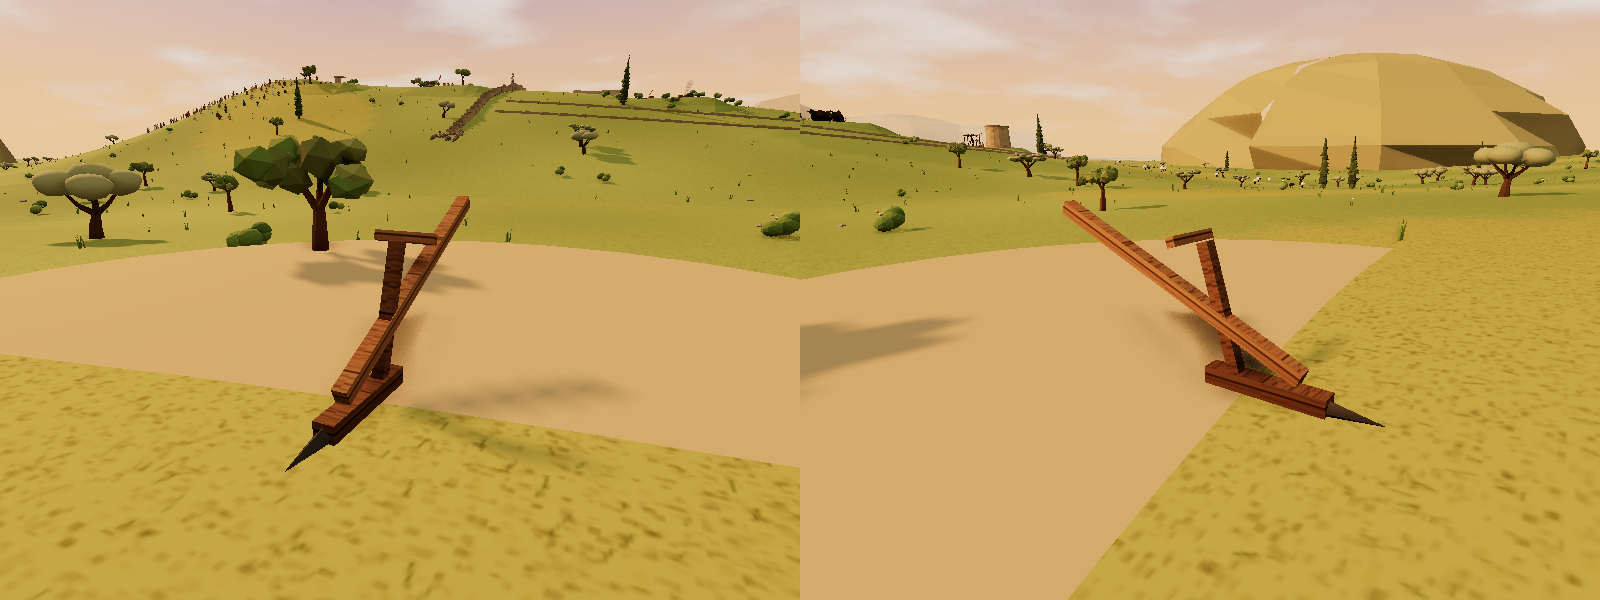
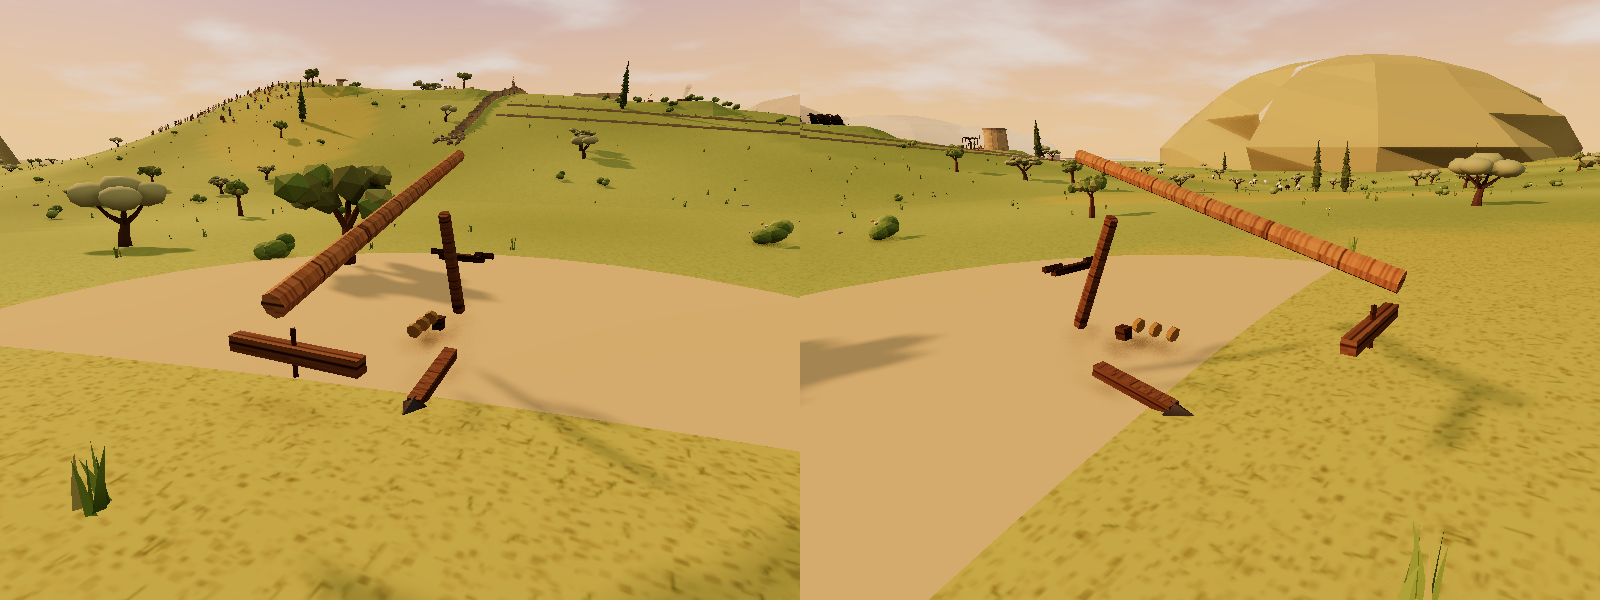
som-ltm: model critic scores, rebuild goatskin/yoke/palm/plough, log instruction
Claude-Session: https://claude.ai/code/session_011GTaBjBmrRYMxR8CbFEKPF

diff --git a/som-ltm/world/models.js b/som-ltm/world/models.js
@@ -25,14 +25,14 @@ function def(id, label, fn) { defObject(id, (g, x, y, z) => { const h = G(); h.p
 
 // ---- the Seat (5:1–5) ----
 def('som-goatskin-bag', 'Goatskin water bag hung from a forked stake', g => {
-  cy(g, .05, .07, 1.9, 7, mWoodDk, 0, 0, -.35); cy(g, .03, .045, .55, 6, mWoodDk, -.14, 1.75, -.35, 0, 0, .6); cy(g, .03, .045, .55, 6, mWoodDk, .14, 1.75, -.35, 0, 0, -.6);   // the forked stake, behind the bag
-  const hair = MM('somGoatHair', '#8a6440', TEX.cloth), seam = MM('somSeam', '#4a3020');
-  const body = add(new THREE.CapsuleGeometry(.25, .62, 6, 12), hair, 0, .95, .1, g); body.rotation.z = Math.PI / 2; body.scale.set(1, 1.05, .85); const belly = add(new THREE.SphereGeometry(.27, 12, 8), hair, .05, .83, .1, g); belly.scale.set(1.5, .72, .85);
-  bx(g, 1.0, .02, .02, seam, 0, 1.12, .3); bx(g, .02, .35, .02, seam, -.15, .95, .32);   // seams of the stitched skin
-  for (const x of [-.45, -.3, .3, .45]) { cy(g, .055, .075, .3, 7, mLeatherDk, x, 1.12, .1, 0, 0, x < 0 ? .45 : -.45); cy(g, .06, .06, .04, 7, mCord, x * 1.12, 1.3, .1, 0, 0, x < 0 ? .45 : -.45); }   // four leg stubs, tied off
-  cy(g, .08, .11, .3, 8, mLeatherDk, -.66, .95, .1, 0, 0, 1.15); cy(g, .085, .085, .05, 8, mCord, -.8, 1.01, .1, 0, 0, 1.15); cy(g, .05, .05, .06, 6, mWoodLt, -.84, 1.04, .1, 0, 0, 1.15);   // the neck, tied, a wooden stopper
-  for (const x of [-.5, .5]) { const lx = x * .9, ly = 1.32, tx = x * .32, ty = 1.95, L = Math.hypot(tx - lx, ty - ly, .45); const c = cy(g, .013, .013, L, 4, mCord, (lx + tx) / 2, (ly + ty) / 2 - L / 2, -.12, .55, 0, Math.atan2(tx - lx, ty - ly) * -1); }   // cords from the legs up to the fork
-  return 2.0; });
+  cy(g, .06, .08, 2.1, 7, mWoodDk, 0, 0, 0); for (const s of [-1, 1]) cy(g, .035, .05, .55, 6, mWoodDk, s * .14, 2.0, 0, 0, 0, -s * .5);   // a stout stake, forked at the top
+  cy(g, .02, .02, .5, 5, mWood, 0, 2.26, 0, 0, 0, Math.PI / 2);   // a crossbar resting in the fork
+  const bag = add(new THREE.SphereGeometry(.34, 14, 10), mLeather, 0, 1.15, .32, g); bag.scale.set(1.05, 1.25, .8);   // the swollen skin, full of water
+  for (const s of [-1, 1]) { cy(g, .012, .012, .7, 4, mCord, s * .17, 1.88, .2, .35, 0, -s * .2);   // two cords from the crossbar to the tied legs
+    cy(g, .05, .045, .22, 7, mLeatherDk, s * .22, 1.5, .28, 0, 0, s * .9); cy(g, .045, .04, .2, 7, mLeatherDk, s * .3, .78, .32, 0, 0, -s * 2.4); }   // four tied leg stumps
+  cy(g, .06, .08, .28, 8, mLeatherDk, 0, .7, .4, .5); cy(g, .07, .07, .04, 8, mCord, 0, .72, .48, .5);   // the neck spout, tied off, hanging at the bottom
+  const drip = add(new THREE.SphereGeometry(.02, 6, 5), mBrine, 0, .6, .52, g); drip.scale.y = 1.8;
+  return 2.3; });
 def('som-limestone-pavement', 'Bare limestone pavement', g => {
   const soil = add(new THREE.CircleGeometry(2.1, 9), MM('somCrack', '#6a5e48'), 0, .005, 0, g); soil.rotation.x = -Math.PI / 2; soil.scale.set(1, .9, 1);
   const P = [[0, 0, .9], [1.25, -.35, .65], [-1.15, .2, .7], [.35, 1.05, .62], [-.45, -.95, .6], [1.05, .85, .45], [-1.3, -.85, .4], [.25, -1.5, .45], [-.8, 1.1, .45]];
@@ -70,12 +70,15 @@ def('som-fold-gateway', 'Gateway of the fold', g => {
 
 // ---- the House on the Sand (7:26–29) ----
 def('som-date-palm', 'Date palm leaning over the house', g => {
-  let x = 0, y = 0; for (let i = 0; i < 10; i++) { const lean = .07 * (i + 1) * .45, r0 = .26 - i * .013, h = .55; cy(g, r0 - .015, r0, h, 9, mPalmTrunk, x, y, 0, 0, 0, -lean); x += Math.sin(lean) * h; y += Math.cos(lean) * h; add(new THREE.TorusGeometry(r0 - .01, .035, 4, 9), mWoodDk, x, y - .03, 0, g).rotation.set(Math.PI / 2, 0, -lean); }   // tapering, scarred trunk, leaning
-  for (let k = 0; k < 15; k++) { const a = k / 15 * 6.28, droop = k % 2 ? .55 : .25, fr = new THREE.Group(); fr.position.set(x, y + .1, 0); fr.rotation.set(0, a, 0); g.add(fr);
-    for (let j = 0; j < 7; j++) { const t = (j + .5) / 7, L = 2.2, px = t * L, py = Math.sin(t * 2.4) * .5 - t * t * droop * 2; const lf = bx(fr, .3, .015, .55 * (1 - t * .6), mFrond, px, py, 0, 0, 0, -.3 - t * droop); }
-  }   // fifteen arching fronds
-  for (let k = 0; k < 4; k++) { const a = k / 4 * 6.28; for (let j = 0; j < 8; j++) add(new THREE.SphereGeometry(.06, 5, 4), mDates, x + Math.cos(a) * .35 + R(-.08, .08), y - .2 - j * .05, Math.sin(a) * .35 + R(-.08, .08), g).scale.y = 1.4; }   // hanging date clusters
-  return y + .5; });
+  const lean = .22, H = 6.2, segs = 14; for (let i = 0; i < segs; i++) { const t = i / segs, r = .24 - t * .06; cy(g, r * .92, r, H / segs * 1.02, 9, mPalmTrunk, Math.sin(lean) * t * H, t * H, 0, 0, 0, -lean); }   // thick ringed trunk
+  const top = new THREE.Group(); top.position.set(Math.sin(lean) * H, H, 0); g.add(top);
+  for (let k = 0; k < 16; k++) { const a = k / 16 * 6.28 + R(-.1, .1), up = k % 2 ? .5 : -.1, fr = new THREE.Group(); fr.rotation.y = a; top.add(fr);
+    const pts = []; for (let j = 0; j <= 8; j++) { const t = j / 8; pts.push(new THREE.Vector3(t * 2.6, Math.sin(t * 2.4) * (.6 + up) - t * t * 1.4, 0)); } const curve = new THREE.CatmullRomCurve3(pts);
+    add(new THREE.TubeGeometry(curve, 10, .025, 4), mPalmTrunk, 0, 0, 0, fr);   // the arching midrib
+    for (let j = 1; j < 14; j++) { const p = curve.getPoint(j / 14), w = .5 * Math.sin(j / 14 * 3.1); for (const s of [-1, 1]) { const lf = bx(fr, .07, .015, w, mFrond, p.x, p.y, s * w / 2); lf.rotation.x = s * .5; } } }   // leaflets either side, making a feathered crown
+  for (let k = 0; k < 4; k++) { const a = k * 1.6 + .4, dx = Math.cos(a) * .35, dz = Math.sin(a) * .35; for (let i = 0; i < 26; i++) add(new THREE.SphereGeometry(.05, 6, 5), mDates, top.position.x + dx + R(-.13, .13), H - .35 - R(0, .6), dz + R(-.13, .13), g);   // big date bunches hanging below the crown
+    cy(g, .015, .015, .6, 4, mStraw, top.position.x + dx, H - .3, dz, 0, 0, .2); }
+  return H + 1; });
 def('som-mudbrick-wall', 'Low mud-brick wall of the yard', g => {
   const mb = MM('somMudBrick', '#b49a74', TEX.plaster), mb2 = MM('somMudBrick2', '#a68c66', TEX.plaster);
   for (let row = 0; row < 3; row++) for (let k = 0; k < 6; k++) bx(g, .56 * R(.94, 1.02), .24, .36, rnd() > .5 ? mb : mb2, -1.45 + k * .58 + (row % 2) * .29, row * .25, 0, R(-.04, .04), 0, R(-.03, .03));
@@ -84,16 +87,21 @@ def('som-mudbrick-wall', 'Low mud-brick wall of the yard', g => {
 
 // ---- the Ox Stall (6:21–25) ----
 def('som-yoke-on-peg', 'Yoke for two oxen, hung on its peg', g => {
-  dryWall(g, -1.5, -.3, 1.5, -.3, 2.1, .45); cy(g, .07, .07, .6, 7, mWoodLt, 0, 1.85, .0, Math.PI / 2);   // coursed stall wall and a stout peg
-  const yk = MM('somYokeWood', '#c89a62', TEX.wood); const beam = add(new THREE.TorusGeometry(3.2, .1, 6, 30, .62), yk, 0, -1.45, .35, g); beam.rotation.z = Math.PI / 2 - .31;   // a long, gently curved beam hung at its middle
-  for (const s of [-.75, .75]) { const bow = add(new THREE.TorusGeometry(.3, .055, 6, 14, Math.PI), yk, s, 1.42, .35, g); bow.rotation.z = Math.PI; for (const d of [-.3, .3]) cy(g, .04, .04, .2, 5, mWoodDk, s + d, 1.6, .35); }   // two big U-shaped bows hanging below, pegged through the beam
-  add(new THREE.TorusGeometry(.09, .025, 4, 10), mIron, 0, 1.55, .45, g);
-  return 2.1; });
+  dryWall(g, -1.2, -.3, 1.2, -.3, 1.3, .5);   // a low field-stone wall behind
+  cy(g, .05, .05, .45, 8, mWoodDk, 0, 1.15, -.1, Math.PI / 2);   // one stout peg driven into the wall
+  const beam = new THREE.Group(); beam.position.set(0, 1.18, .12); g.add(beam);
+  bx(beam, 1.9, .13, .13, mWood, 0, 0, 0); for (const s of [-1, 1]) bx(beam, .2, .17, .15, mWood, s * .95, -.02, 0);   // a thick beam with flared ends
+  for (const s of [-.55, .55]) { const bow = add(new THREE.TorusGeometry(.2, .03, 6, 16, Math.PI), mWoodLt, s, -.02, 0, beam); bow.rotation.z = Math.PI;   // the U-shaped bow under each neck
+    for (const t of [-1, 1]) cy(beam, .022, .022, .2, 5, mWoodDk, s + t * .2, .05, 0); }   // bow ends pinned through the beam
+  return 1.45; });
 def('som-plough', 'Wooden plough (ard) with an iron share', g => {
-  bx(g, .16, .14, 1.0, mWood, 0, .06, .45);   // the sole, along the ground
-  const share = add(new THREE.ConeGeometry(.08, .45, 4), mIron, 0, .1, 1.12, g); share.rotation.x = Math.PI / 2;   // the pointed iron share on its tip
-  const beam = bx(g, .12, .12, 2.6, mWoodLt, 0, .75, -.45, 0, .42);   // the long beam rising from the sole to the yoke
-  const stilt = bx(g, .1, 1.1, .1, mWood, 0, .1, .05, 0, -.3); bx(g, .5, .08, .08, mWoodLt, 0, 1.15, -.25, 0, -.3);   // the handle upright and its grip
+  const sole = bx(g, .14, .12, 1.0, mWood, 0, .05, 0, 0, .15);   // the sole dragging along the ground
+  const sh = new THREE.ConeGeometry(.09, .4, 4); sh.rotateX(Math.PI / 2); add(sh, mIron, 0, .02, .66, g).scale.x = 1.4;   // a big iron share on its point
+  cy(g, .06, .07, 1.25, 7, mWood, 0, .55, -.45, .45);   // the stilt rising at the back
+  bx(g, .5, .07, .07, mWoodDk, 0, 1.17, -.75); for (const s of [-1, 1]) cy(g, .035, .035, .2, 5, mWoodDk, s * .25, 1.15, -.75, 0, 0, Math.PI / 2);   // a crosswise handle on top
+  const beam = cy(g, .06, .08, 3.0, 8, mWoodLt, 0, .4, .9, -1.32);   // the long beam from the stilt out to the yoke
+  bx(g, .1, .12, .12, mWoodDk, 0, .6, -.1); for (let k = 0; k < 3; k++) cy(g, .068, .068, .05, 7, mRope, 0, .75, .1 + k * .2, -1.32);   // lashings where beam meets stilt
+  bx(g, .9, .1, .1, mWood, 0, 1.15, 2.2); cy(g, .02, .02, .3, 4, mWoodDk, 0, 1.05, 2.2);   // the yoke-bar at the far end of the beam
   return 1.3; });
 def('som-feeding-niche', 'Roof pillar with a feeding niche of hay', g => {
   const tones = [mRock, mRockDk, MM('somRockWarm', '#b8a68a')];

diff --git a/som-ltm/INSTRUCTIONS.md b/som-ltm/INSTRUCTIONS.md
@@ -16,3 +16,6 @@ Every instruction from the owner, quoted, in the order it arrived. Re-read befor
 | 10 | 2026-11-14 | "Let's do that zigzag pattern all the way down the mountain." / "what is the stick with like a circle at the top of it?… the lookout point has a wall blocking the view out to the lake… a random shed on top of a hill seems… Odd. Maybe instead put a long flat Rock or a bench? With a large tree over it?" | Done: the whole of chapter 5 zigzags down the ridge (rooms 5–10 too); METHOD rule 6 now allows the hillside switchback form; the gourd-on-a-pole and the booth are gone; the Lookout is a long flat rock under a great terebinth, open to the lake and Hippos |
 | 11 | 2026-11-17 | "The stile division needs some work. It just looks random right now. also, when you start in the world, you should start at this viewpoint… on verses 1 through 5." / "take a photo and draw out where you expect each thing to be? We might have to move over the hill, farther away from the lake… give me a basic idea of where you want to put chapters 6 and 7." / "Reiterate the plan until a blind critic gives it a score of 8 out of 10… scoring on the plan in light of our rules and what would look natural." | Start view done (opens at the Seat's stop). Lake shore moved south (SHORE −95 → −180) to make room. Site map `refs/plan/layout-map.png`; plan revised (field wall as a real boundary, zigzag farm west of the ridge end, village loop on the beach). Blind critic passed: 8.1, then 8.2 on a confirming round (`CRITIC.md`) |
 | 12 | 2026-11-17 | "All right. Go ahead and build. The stile Doesn't need a gate post. And the farm cans zigzag down down terraces. However, if you find that difficult, it can just all be on flat land at that point." | Done: field wall rebuilt across the whole ridge (clearance-stone ends, threshold slab, white-topped cairn, no gatepost, terrace lines on the Meadow side); chapter 6 (the Farm, 7 rooms, zigzag lane on near-flat ground with walls, gates and the terrace wall) and chapter 7 (the Shore Village, 6 rooms, clockwise loop on the beach, the wadi, the crowd on its bank) built; all 23 rooms and 33 outline signposts; fast.mjs 90/90 |
+
+## 13 — Hand-build the troublesome models
+"Keep grinding away at the specific models... focus on building the specific models that are giving you troubles by hand. So use the blind critics method on the worst models." → Workshop in world/models.js. Each model is shot alone (refs/models/) and scored by a blind critic (refs/models/MODEL_CRITIC.md) until it reaches 8, then placed in its room.

diff --git a/som-ltm/refs/models/SCORES.md b/som-ltm/refs/models/SCORES.md
@@ -24,3 +24,8 @@
 | som-amphora-buried | 7.7 |
 | som-broken-cart | 8.0 |
 | som-resting-stone | 4.9 |
+
+## Round 2 (batch a) / round 3 (batch b)
+goatskin 5.2, pavement 6.9, seat 7.3, split boulder 6.8, slab corner 7.5, crook 7.0, fold gateway 8.0 ✓, palm 6.0, mud-brick wall 7.6, yoke 5.6, plough 6.5
+niche 5.6, hive pipes 4.6, smoker 6.6, comb 3.9, vat 7.0, mending 5.0, court entrance 6.4, culvert 5.2, amphora 7.1, cart 7.2, resting stone 5.0
+Goatskin, yoke, palm and plough rebuilt again (round 3, not yet scored).
